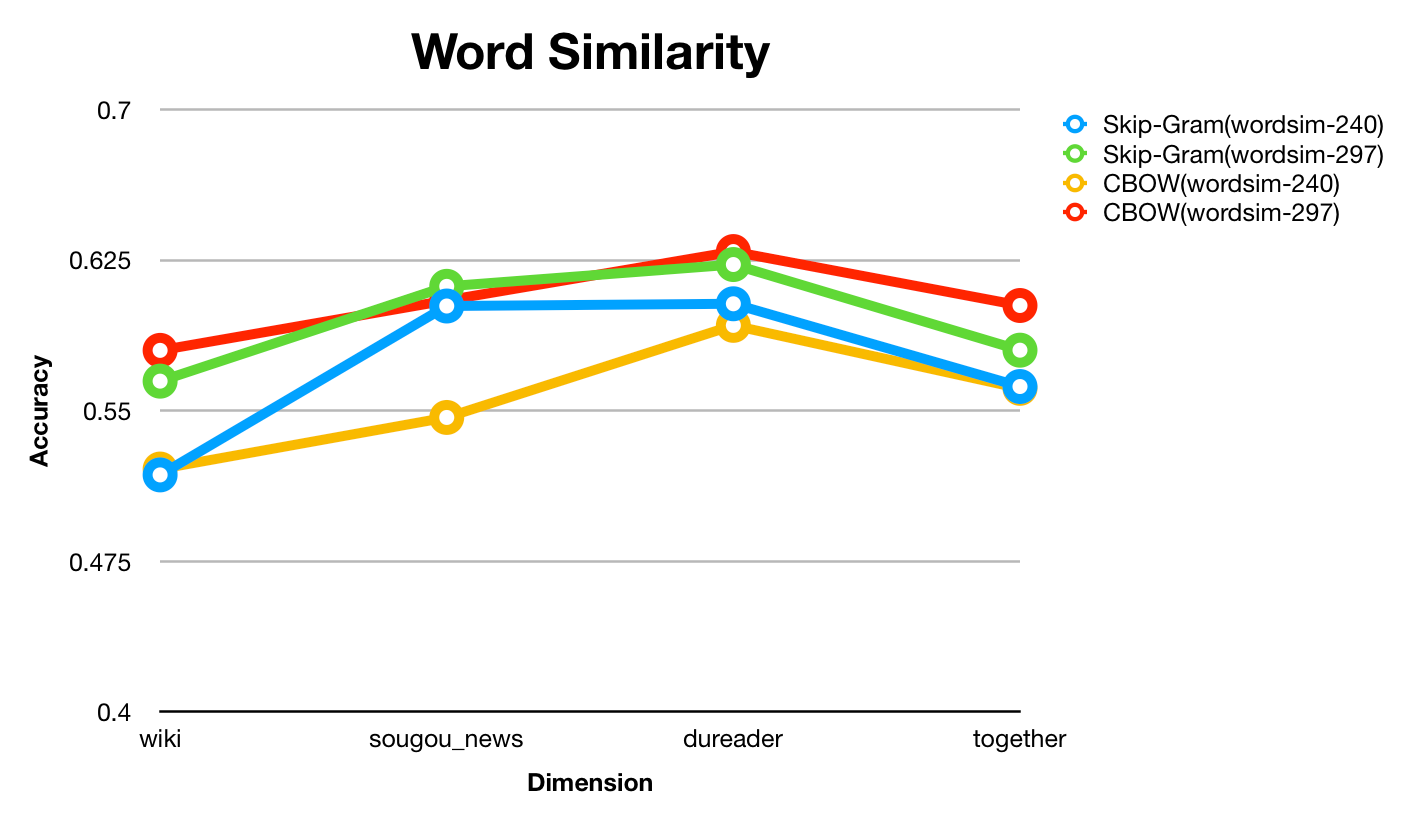
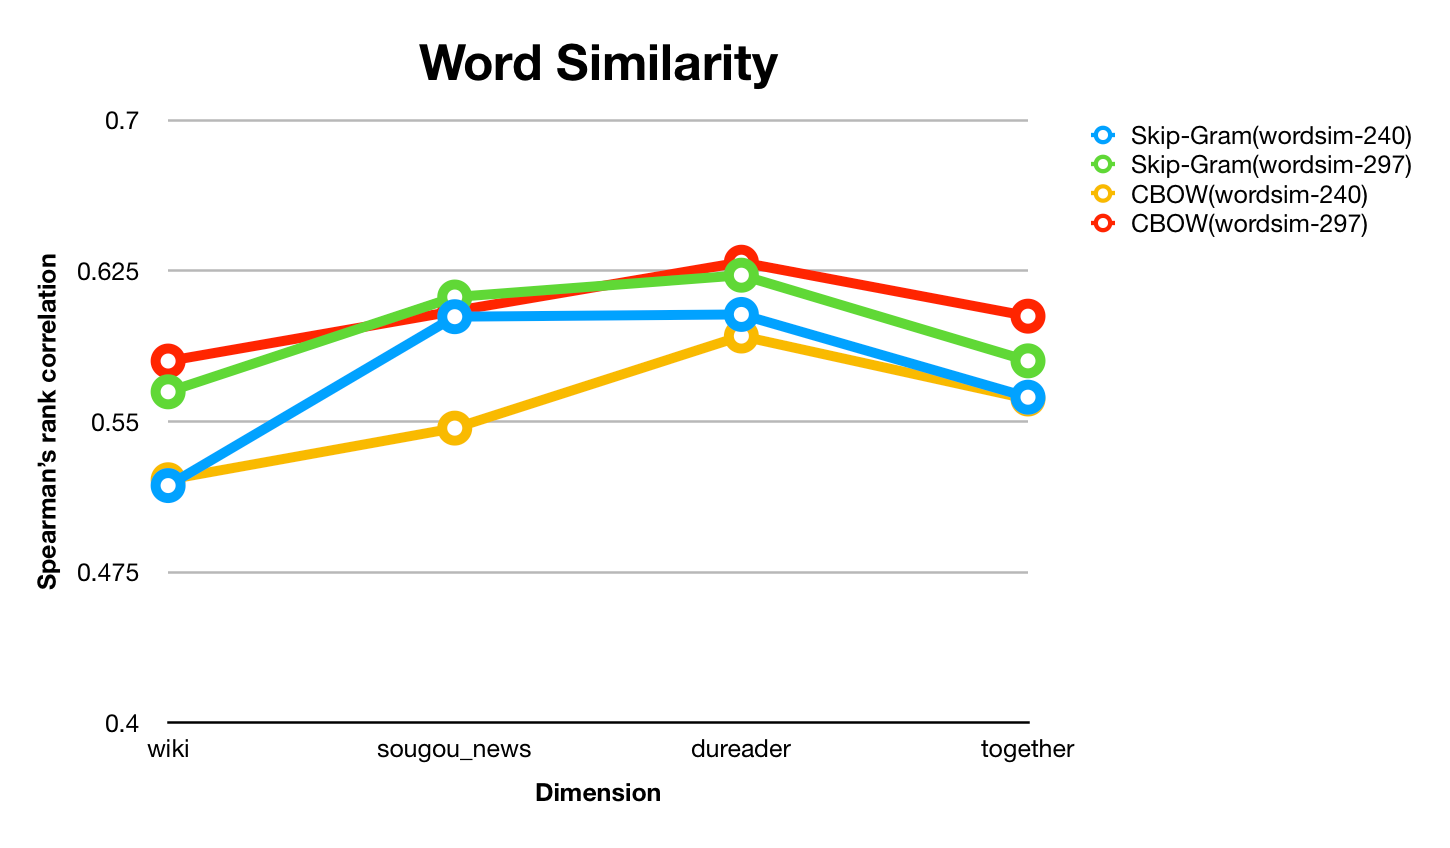
fix y label

diff --git a/embedding/experiment/experiment_report.md b/embedding/experiment/experiment_report.md
@@ -434,7 +434,142 @@ wiki+sougou_news+dureader数据集不同向量维度的分析
 
 # **GloVe**
 
+## **wiki+sougou_news+dureader**
+
+```
+#!/bin/bash
+set -e
+
+CORPUS=../corpus/rm_digit_and_non_chinese/corpus.complete
+SAVE_FILE=../model/glove/wiki_sougou_news_dureader/glove_300
+
+VOCAB_FILE=vocab.txt
+COOCCURRENCE_FILE=cooccurrence.bin
+COOCCURRENCE_SHUF_FILE=cooccurrence.shuf.bin
+BUILDDIR=build
+VERBOSE=2
+MEMORY=15.5
+VOCAB_MIN_COUNT=5
+VECTOR_SIZE=300
+WINDOW_SIZE=5
+BINARY=0
+NUM_THREADS=8
+
+echo "$ $BUILDDIR/vocab_count -min-count $VOCAB_MIN_COUNT -verbose $VERBOSE < $CORPUS > $VOCAB_FILE"
+$BUILDDIR/vocab_count -min-count $VOCAB_MIN_COUNT -verbose $VERBOSE < $CORPUS > $VOCAB_FILE
+echo "$ $BUILDDIR/cooccur -memory $MEMORY -vocab-file $VOCAB_FILE -verbose $VERBOSE -window-size $WINDOW_SIZE < $CORPUS > $COOCCURRENCE_FILE"
+$BUILDDIR/cooccur -memory $MEMORY -vocab-file $VOCAB_FILE -verbose $VERBOSE -window-size $WINDOW_SIZE < $CORPUS > $COOCCURRENCE_FILE
+echo "$ $BUILDDIR/shuffle -memory $MEMORY -verbose $VERBOSE < $COOCCURRENCE_FILE > $COOCCURRENCE_SHUF_FILE"
+$BUILDDIR/shuffle -memory $MEMORY -verbose $VERBOSE < $COOCCURRENCE_FILE > $COOCCURRENCE_SHUF_FILE
+echo "$ $BUILDDIR/glove -write-header 1 -model 1 -save-file $SAVE_FILE -threads $NUM_THREADS -input-file $COOCCURRENCE_SHUF_FILE -vector-size $VECTOR_SIZE -binary $BINARY -vocab-file $VOCAB_FILE -verbose $VE    RBOSE"
+$BUILDDIR/glove -write-header 1 -model 1 -save-file $SAVE_FILE -threads $NUM_THREADS -input-file $COOCCURRENCE_SHUF_FILE -vector-size $VECTOR_SIZE -binary $BINARY -vocab-file $VOCAB_FILE -verbose $VERBOSE
+```
+
+**Word Similarity**
+
+| Dataset | Found | Not Found | Score(Spearman Correlation) |
+| :-: | :-: | :-: | :-: |
+| 240.txt | 232 | 8 | 0.5468020805354796 |
+| 297.txt | 287 | 10 | 0.5147933094143985 |
+
+**Word Analogy**
+
+Mean rank: 指ground truth在最近邻中排第几（理想情况应该是1）
+
+| Category | Total count | Accuracy | Mean rank |
+| :-: | :-: | :-: | :-: |
+| City | 175 |  |  |
+| Family | 272 |  |  |
+| Capital | 506 |  |  |
+| Total | 953 |  |  |
+
+**文本分类**
+
+Accuracy = 93.625%
+
 # **fastText**
+
+## **wiki+sougou_news+dureader**
+
+### **Skip-Gram**
+
+```
+./fasttext skipgram -input ../corpus/rm_digit_and_non_chinese/corpus.complete -output ../model/fasttext/wiki_sougou_news_dureader/fasttext_skip_gram_300 -minCount 5 -minn 1 -maxn 6 -t 0.0001 -lr 0.025 -dim 300 -ws 5 -neg 10 -loss ns -thread 3
+```
+
+**Word Similarity**
+
+Preprocess in order to compute all word vector
+
+```
+cut -f 1,2 ../CWE/data/240.txt | awk '{print tolower($0)}' | tr '\t' '\n' > queries.txt
+cat queries.txt | ../fastText/fasttext print-word-vectors ../model/fasttext/wiki_sougou_news_dureader/fasttext_skip_gram_300.bin > vectors.txt
+
+cut -f 1,2 ../CWE/data/297.txt | awk '{print tolower($0)}' | tr '\t' '\n' > queries.txt
+cat queries.txt | ../fastText/fasttext print-word-vectors ../model/fasttext/wiki_sougou_news_dureader/fasttext_skip_gram_300.bin > vectors.txt
+```
+
+| Dataset | Found | Not Found | Score(Spearman Correlation) |
+| :-: | :-: | :-: | :-: |
+| 240.txt | 240 | 0 | 0.5775802337578299 |
+| 297.txt | 296 | 1 | 0.6185255346335059 |
+
+**Word Analogy**
+
+Mean rank: 指ground truth在最近邻中排第几（理想情况应该是1）
+
+| Category | Total count | Accuracy | Mean rank |
+| :-: | :-: | :-: | :-: |
+| City | 175 |  |  |
+| Family | 272 |  |  |
+| Capital | 506 |  |  |
+| Total | 953 |  |  |
+
+**文本分类**
+
+Do not preprocess like above, just omit oov
+
+Accuracy = 94.15%
+
+### **CBOW**
+
+```
+./fasttext cbow -input ../corpus/rm_digit_and_non_chinese/corpus.complete -output ../model/fasttext/wiki_sougou_news_dureader/fasttext_cbow_300 -minCount 5 -minn 1 -maxn 6 -t 0.0001 -lr 0.05 -dim 300 -ws 5 -neg 10 -loss ns -thread 3
+```
+
+**Word Similarity**
+
+Preprocess in order to compute all word vector
+
+```
+cut -f 1,2 ../CWE/data/240.txt | awk '{print tolower($0)}' | tr '\t' '\n' > queries.txt
+cat queries.txt | ../fastText/fasttext print-word-vectors ../model/fasttext/wiki_sougou_news_dureader/fasttext_cbow_300.bin > vectors.txt
+
+cut -f 1,2 ../CWE/data/297.txt | awk '{print tolower($0)}' | tr '\t' '\n' > queries.txt
+cat queries.txt | ../fastText/fasttext print-word-vectors ../model/fasttext/wiki_sougou_news_dureader/fasttext_cbow_300.bin > vectors.txt
+```
+
+| Dataset | Found | Not Found | Score(Spearman Correlation) |
+| :-: | :-: | :-: | :-: |
+| 240.txt | 240 | 0 | 0.5900611487697095 |
+| 297.txt | 296 | 1 | 0.6343481072884735 |
+
+**Word Analogy**
+
+Mean rank: 指ground truth在最近邻中排第几（理想情况应该是1）
+
+| Category | Total count | Accuracy | Mean rank |
+| :-: | :-: | :-: | :-: |
+| City | 175 |  |  |
+| Family | 272 |  |  |
+| Capital | 506 |  |  |
+| Total | 953 |  |  |
+
+**文本分类**
+
+Do not preprocess like above, just omit oov
+
+Accuracy = 93.8%
 
 # **CWE**
 
